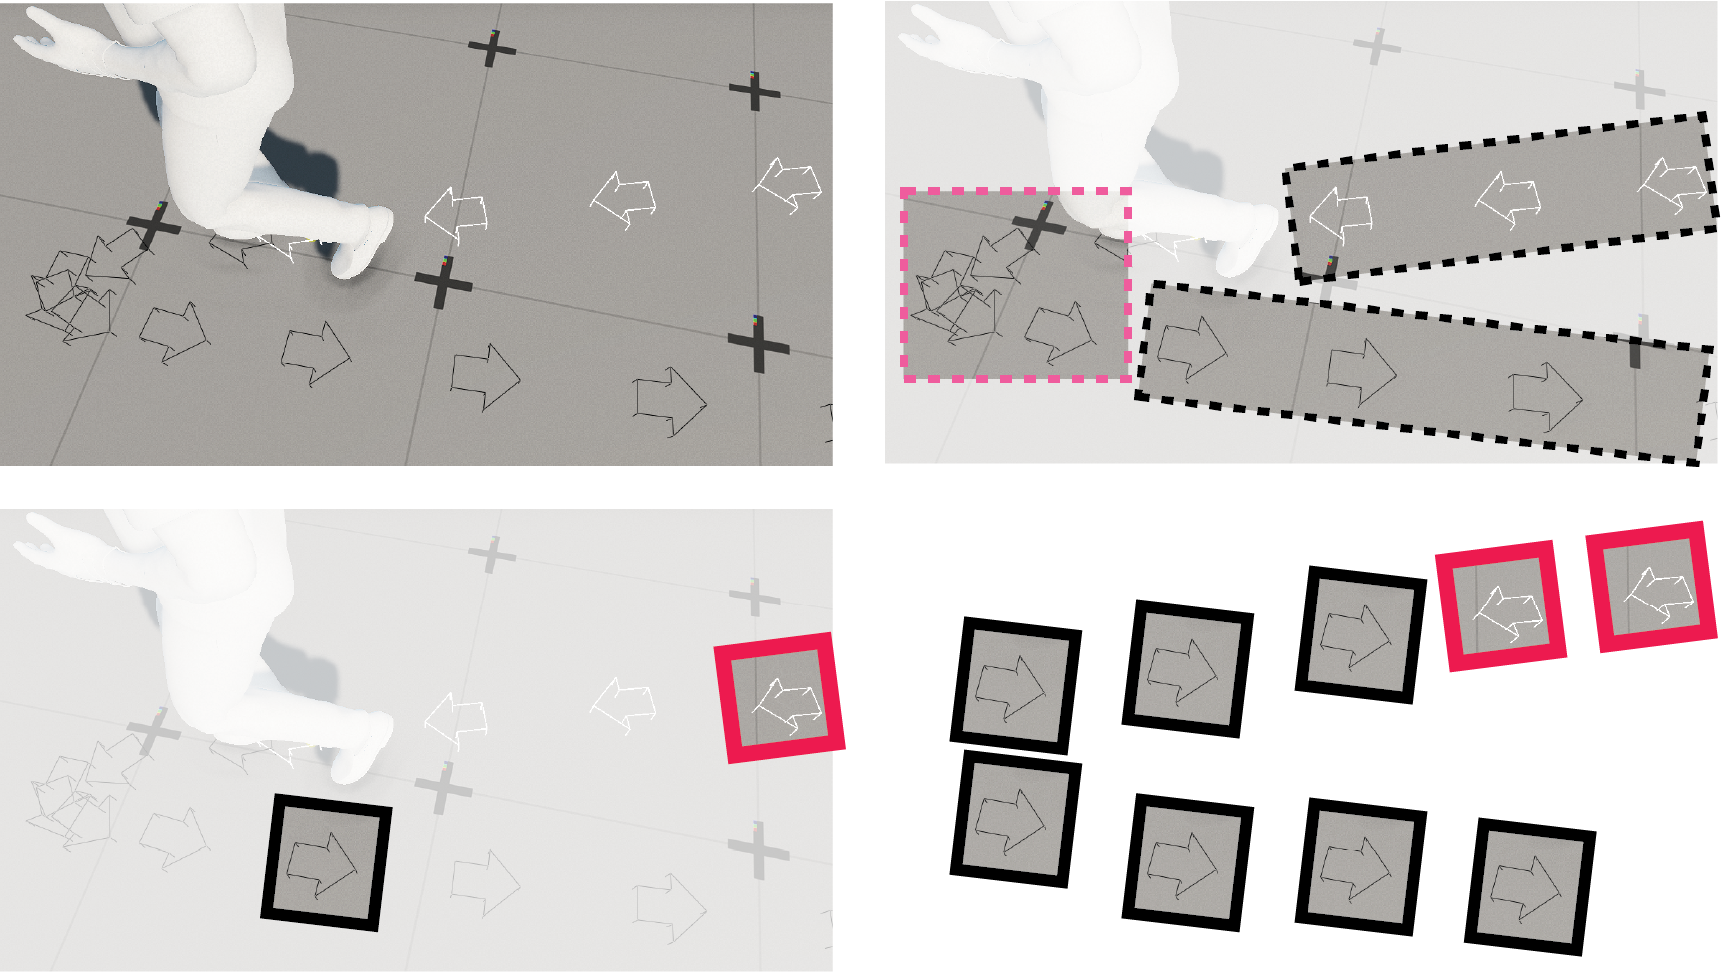
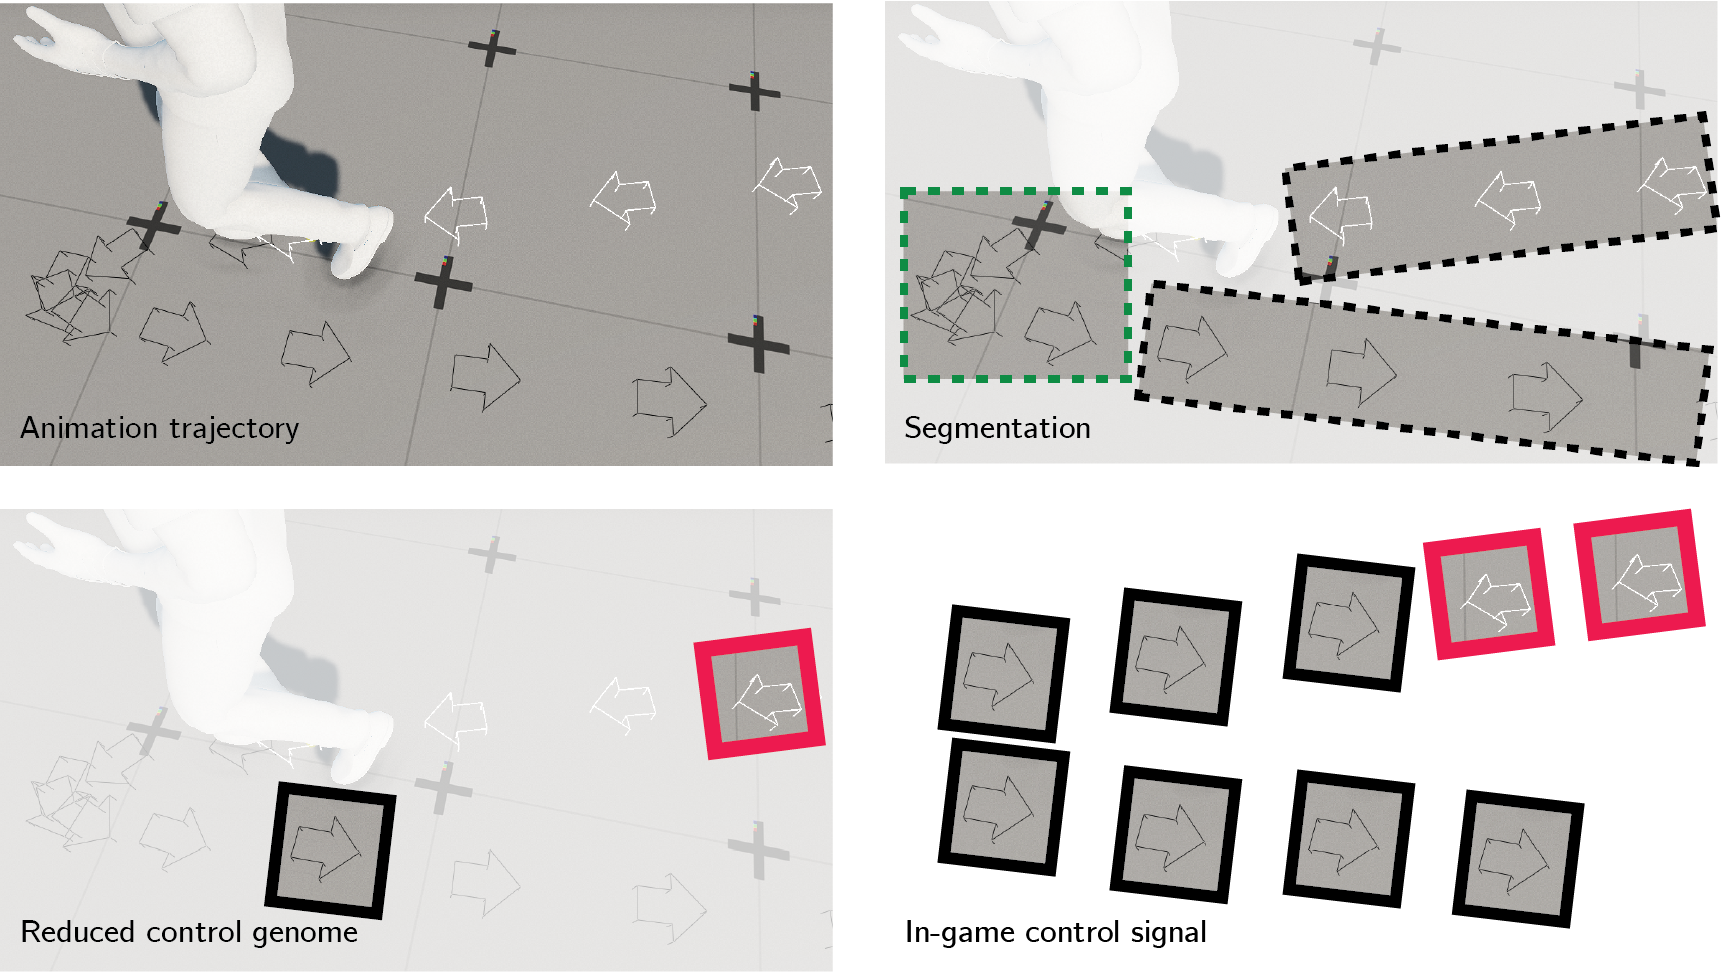
work

diff --git a/sections/results.tex b/sections/results.tex
@@ -27,7 +27,7 @@ To avoid sharp trajectory changes on foot contacts we apply a gaussian filter wi
 \begin{figure}
     \centering
     \includegraphics[width=1.0\columnwidth]{img/estimated_trajectory_angular_velocity.png}
-    \caption{Angular velocity profiles of 3 animation clips. Top: Straight movement. Center: Straight movement with more adjustments to stay on path. Bottom: A turn. Estimated trajectories show clear peaks and smaller integrals of angular velocities compared to projected hip movement. Positive and negative angular velocities indicate right and left steering respectively. The estimated trajectories of straight animations show clear localized adjustments to heading, while hip movement obfuscate details.\\The bottom plot also shows the effects of applying local smoothing around foot contacts.}
+    \caption{Angular velocity profiles of 2 animation clips. Top: Straight movement. Center: Same straight movement, but zoomed. Bottom: A turn. Estimated trajectories show clear peaks and smaller integrals of angular velocities compared to projected hip movement. Positive and negative angular velocities indicate right and left steering respectively. The estimated trajectories of straight animations show clear localized non-cyclic adjustments to heading, while hip movement obfuscate details.\\The bottom plot also shows the effects of applying local smoothing around foot contacts.}
     \label{fig:results:estimatedtrajectory:stats}
 \end{figure}
 
@@ -37,7 +37,7 @@ Our animations are based on dance cards with clearly defined regions and repeati
 \begin{figure}
     \centering
     \includegraphics[width=1.0\columnwidth]{img/genome_extract.png}
-    \caption{Control Genome is extracted from an animation where the actor runs forward then does a $180^o$ turn and runs straight again. The animation is segmented into parts of either straight (black) or complex (purple) movement as illustrated in the top right image. We replace turning sections, with the first entry from the proceeding straight section. Entries marked with a solid square contain repeated information and are extracted only once with a timestamp.}
+    \caption{Control Genome is extracted from an animation where the actor runs forward then does a $180^o$ turn and runs straight again. The animation is segmented into parts of either straight (black) or complex (green) movement as illustrated in the top right image. We replace turning sections, with the first entry from the proceeding straight section. Entries marked with a solid square contain repeated information and are extracted only once with a timestamp.}
     \label{fig:results:genome_extraction}
 \end{figure}
 
